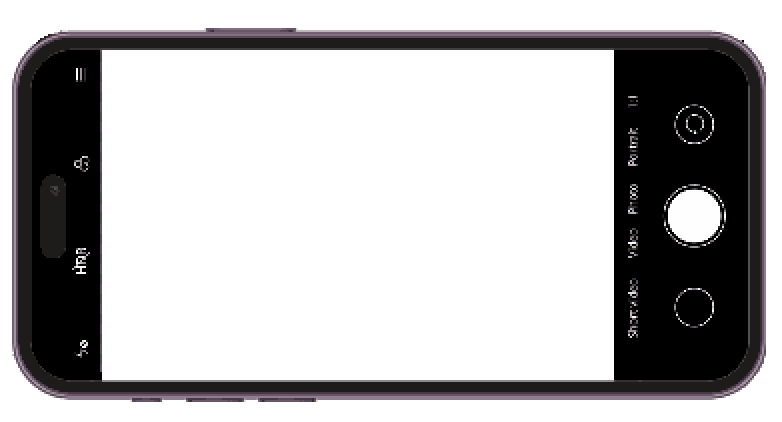
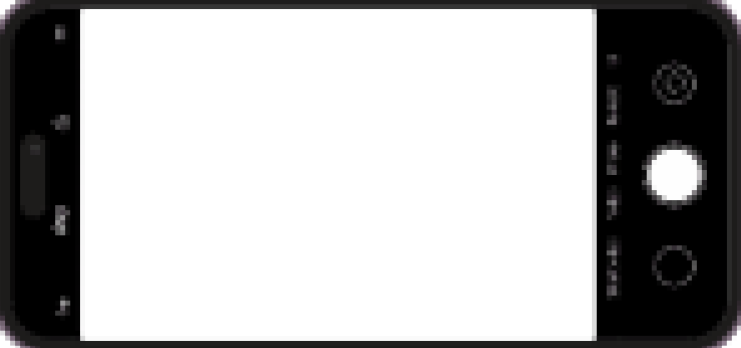
카메라 이펙트 추가

diff --git a/wayToSchool.js b/wayToSchool.js
@@ -14,6 +14,8 @@ class WayToSchool {
     this.chosen = 0; // 선택지에서 몇 번을 선택했는가. 전역변수로 값이 나갈 예정
     this.selected = false; // 선택을 했는가.
 
+    this.flashAlpha = 0; // 플래시의 투명도
+    this.isFlashing = false; // 플래시 켜져있나?
   }
 
   static preload() {
@@ -38,8 +40,9 @@ class WayToSchool {
     WayToSchool.wtsCycleRed = loadImage('assets/images/objects/wayToSchoolCycle1.png');
     WayToSchool.wtsCycleChild = loadImage('assets/images/objects/wayToSchoolCycle2.png');
     WayToSchool.wtsCycleUni = loadImage('assets/images/objects/wayToSchoolCycle3.png');
-    WayToSchool.pCam = loadImage('assets/images/objects/phoneCamerafilled.png');
-    WayToSchool.pCamClean = loadImage('assets/images/objects/phoneCamera.png');
+    WayToSchool.pCam = loadImage('assets/images/objects/phoneCamera.png');
+    WayToSchool.pCamClean = loadImage('assets/images/objects/phoneCamera2transparent.png');
+    WayToSchool.blurImage = loadImage('assets/images/backgrounds/blurImage.png');
   }
 
   display() {
@@ -52,13 +55,25 @@ class WayToSchool {
     
     if (this.eventOccur) {
       fill(0);
-      rect(0, 720, 1280, -this.blackBar);
+      rectMode(CORNER);
+      rect(0, height, 1280, - this.blackBar);
       rect(0, 0, 1280, this.blackBar);
-      if (this.blackBar < 120){
-        this.blackBar += 2;
-      }
 
-      image(WayToSchool.pCam, 249, 149);
+      if (this.blackBar < 120){
+        this.blackBar += 3;
+      } 
+
+      image(WayToSchool.blurImage, 0, 0, 1280, 720);
+
+      
+      rectMode(CENTER);
+      fill(0, 220);
+      rect(width/2, height/2, 730, 340);
+      rectMode(CORNER);
+
+      image(WayToSchool.pCam, width/2 - 370, height/2 - 174, 740, 348);
+
+ 
 
       if (day == 1) {
         image(this.wtsStoreSelected, 445, 204.5);
@@ -316,13 +331,17 @@ class WayToSchool {
         }
       }
     }
+
+    this.cameraFlash();
   }
 
   handleClick() {
 
     if (this.over() == day) {  /// 이벤트 발생 트리거: this.over = 날짜
       cameraSound.play();
+      this.cameraFlashTrigger();
       this.eventOccur = true;
+      
     }
 
     if (this.eventOccur){ /// 이벤트 발생 시작 후
@@ -413,7 +432,25 @@ class WayToSchool {
     }
   }
 
+  cameraFlashTrigger() {
+    this.flashAlpha = 255;
+    this.isFlashing = true;
+  }
 
+  cameraFlash() {
+    if(this.isFlashing) {
+      this.flashAlpha -= 5;
+      if(this.flashAlpha <= 0) {
+        this.flashAlpha = 0;
+        this.isFlasing = false;
+      }
+    }
+
+    if(this.flashAlpha > 0) {
+      fill(255, this.flashAlpha);
+      rect(0, 0, width, height);
+    }
+  }
 
   over() {
 

diff --git a/wayToHome.js b/wayToHome.js
@@ -16,6 +16,9 @@ class WayToHome {
     this.choosing = false; // 선택지를 고르고 있는가
     this.chosen = 0; // 선택지에서 몇 번을 선택했는가. 전역변수로 값이 나갈 예정
     this.selected = false; // 선택을 했는가.
+
+    this.flashAlpha = 0; // 플래시의 투명도
+    this.isFlashing = false; // 플래시 켜져있나?
   }
 
   static preload() {
@@ -53,6 +56,8 @@ class WayToHome {
 
     WayToHome.pCam = loadImage('assets/images/objects/phoneCamerafilled.png');
     WayToHome.pCamClean = loadImage('assets/images/objects/phoneCamera.png');
+
+    WayToHome.blurImage = loadImage('assets/images/backgrounds/blurImage.png');
   }
 
   display() {
@@ -78,10 +83,17 @@ class WayToHome {
       rect(0, 720, 1280, -this.blackBar);
       rect(0, 0, 1280, this.blackBar);
       if (this.blackBar < 120){
-        this.blackBar += 2;
+        this.blackBar += 3;
       }
 
-      image(WayToHome.pCam, 249, 149);
+      image(WayToHome.blurImage, 0, 0, 1280, 720);
+
+      rectMode(CENTER);
+      fill(0, 220);
+      rect(width/2, height/2, 730, 340);
+      rectMode(CORNER);
+      
+      image(WayToHome.pCamClean, width/2 - 370, height/2 - 174, 740, 348);
 
       if (day == 1) {
         image(this.wthWallSelected, 510, 240);
@@ -330,12 +342,15 @@ class WayToHome {
         }
       }
     }
+
+    this.cameraFlash();
   }
 
   handleClick() {
 
     if (this.over() == day) {  /// 이벤트 발생 트리거: this.over = 날짜
       this.eventOccur = true;
+      this.cameraFlashTrigger();
       cameraSound.play();
     }
 
@@ -418,6 +433,26 @@ class WayToHome {
       busSound.setVolume(0.5);
       busSound.play();
       changePage(homeNight, 'Loading...');
+    }
+  }
+
+  cameraFlashTrigger() {
+    this.flashAlpha = 255;
+    this.isFlashing = true;
+  }
+
+  cameraFlash() {
+    if(this.isFlashing) {
+      this.flashAlpha -= 5;
+      if(this.flashAlpha <= 0) {
+        this.flashAlpha = 0;
+        this.isFlasing = false;
+      }
+    }
+
+    if(this.flashAlpha > 0) {
+      fill(255, this.flashAlpha);
+      rect(0, 0, width, height);
     }
   }
 

diff --git a/sketch.js b/sketch.js
@@ -41,7 +41,7 @@ let wthRoad = 0; //길(배경 요소)
 
 function preload() {
   fontNeo = loadFont('assets/fonts/neoMo.TTF');
-  cursorImage1 = loadImage('assets/images/mouseCursor1.png');
+  cursorImage1 = loadImage('assets/images/mouseCursor3.png');
   cursorImage2 = loadImage('assets/images/mouseCursor2.png');
   cameraSound = loadSound('assets/sounds/cursorClickSound.mp3');
   clickSound = loadSound('assets/sounds/objectClickSound.mp3');
@@ -128,11 +128,20 @@ function draw() {
   //커서 이미지 적용
   if(currentScene instanceof EndingScene) {}
   else {
-    push();
-    translate(mouseX, mouseY);
-    scale(0.55);
-    image(cursorImage, 0, 0);
-    pop();
+    if(cursorImage == cursorImage2) {
+      push();
+      translate(mouseX, mouseY);
+      scale(0.55);
+      image(cursorImage, -60, -60, 120, 120);
+      pop();
+    } else {
+      push();
+      translate(mouseX, mouseY);
+      scale(0.55);
+      image(cursorImage, -50, -50, 100, 100);
+      pop();
+    }
+    
   }
 
 }
